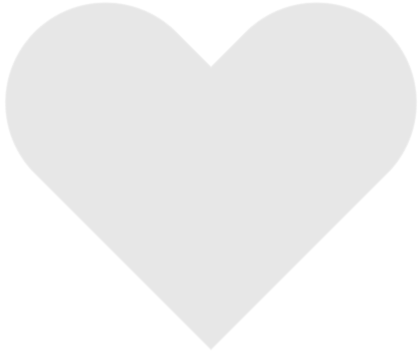
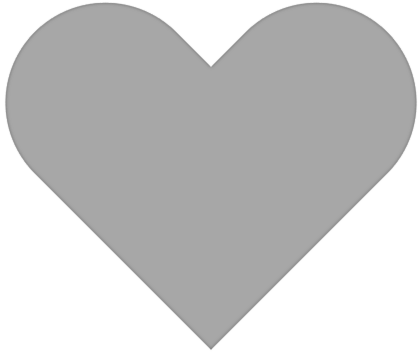
changed color or heart and deleted some old commented code

diff --git a/app.js b/app.js
@@ -196,13 +196,6 @@ app.post('/searchResults', (req, result) => {
                             WHERE LOWER(title) LIKE LOWER('%${req.body.title}%')
                             AND LOWER(publisher) LIKE LOWER('%${req.body.publisher}%')
                             AND LOWER(full_name) LIKE LOWER('%${req.body.author}%')`;
-            
-                            /*
-            `SELECT * FROM book JOIN author ON author.author_id = book.author_id
-                            WHERE LOWER(title) LIKE LOWER('%${req.body.title}%')
-                            AND LOWER(publisher) LIKE LOWER('%${req.body.publisher}%')
-                            AND LOWER(full_name) LIKE LOWER('%${req.body.author}%')`;
-                            */
 
             if (req.body.book_id != "") {
                 sqlString += ` AND book_id = ${req.body.book_id}`;
